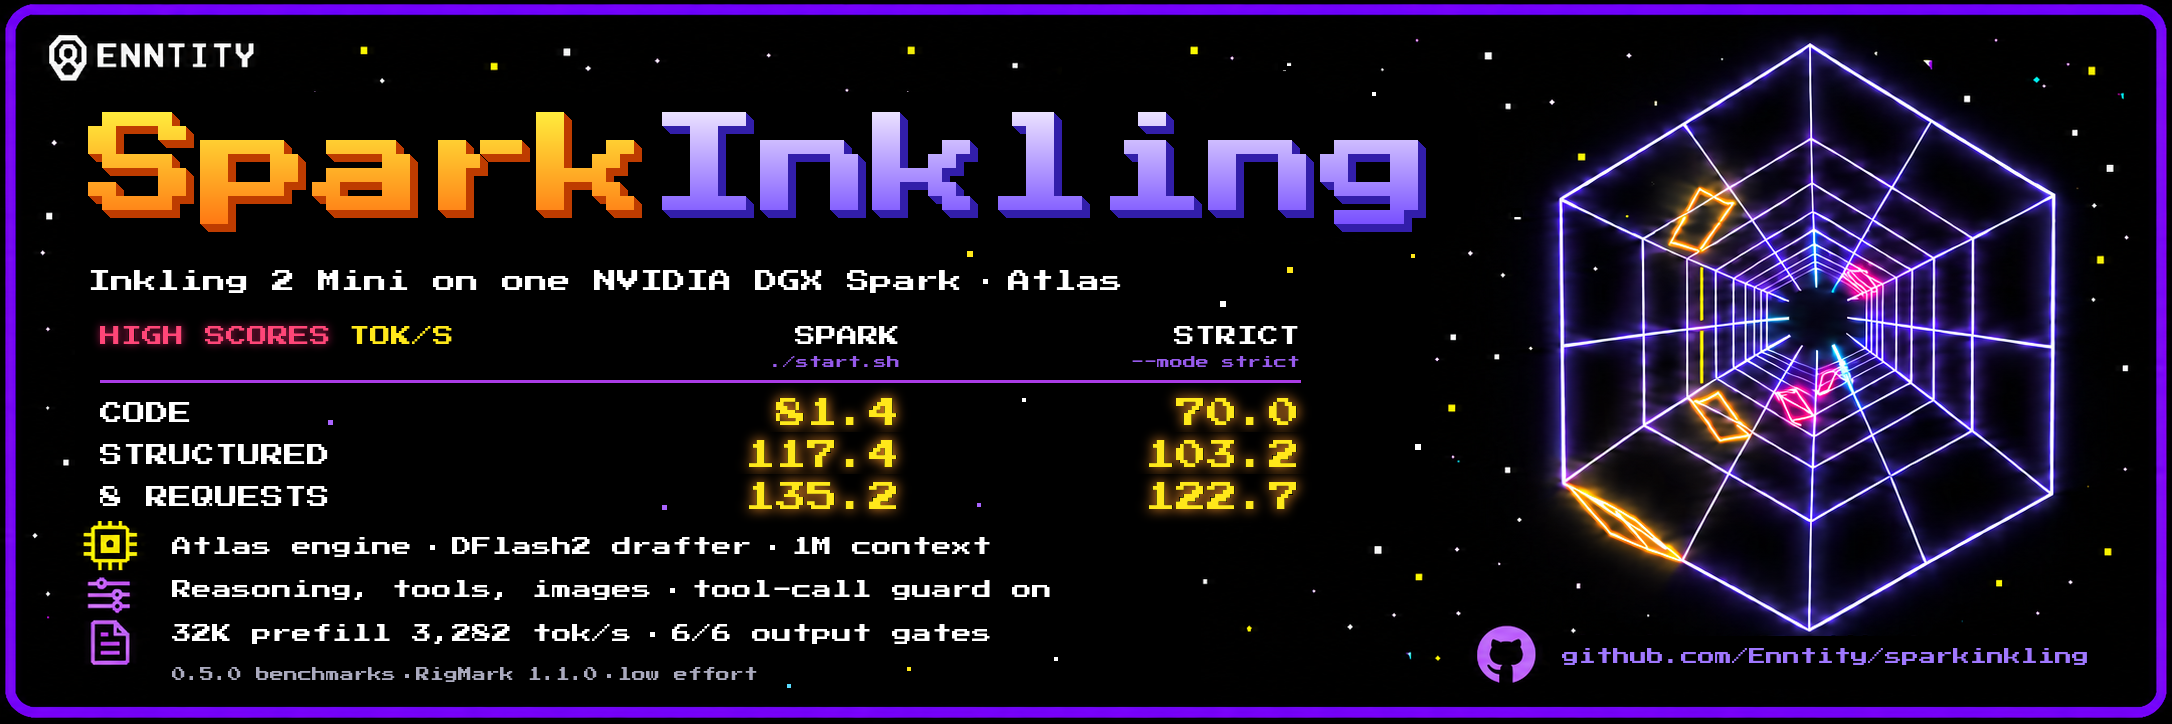
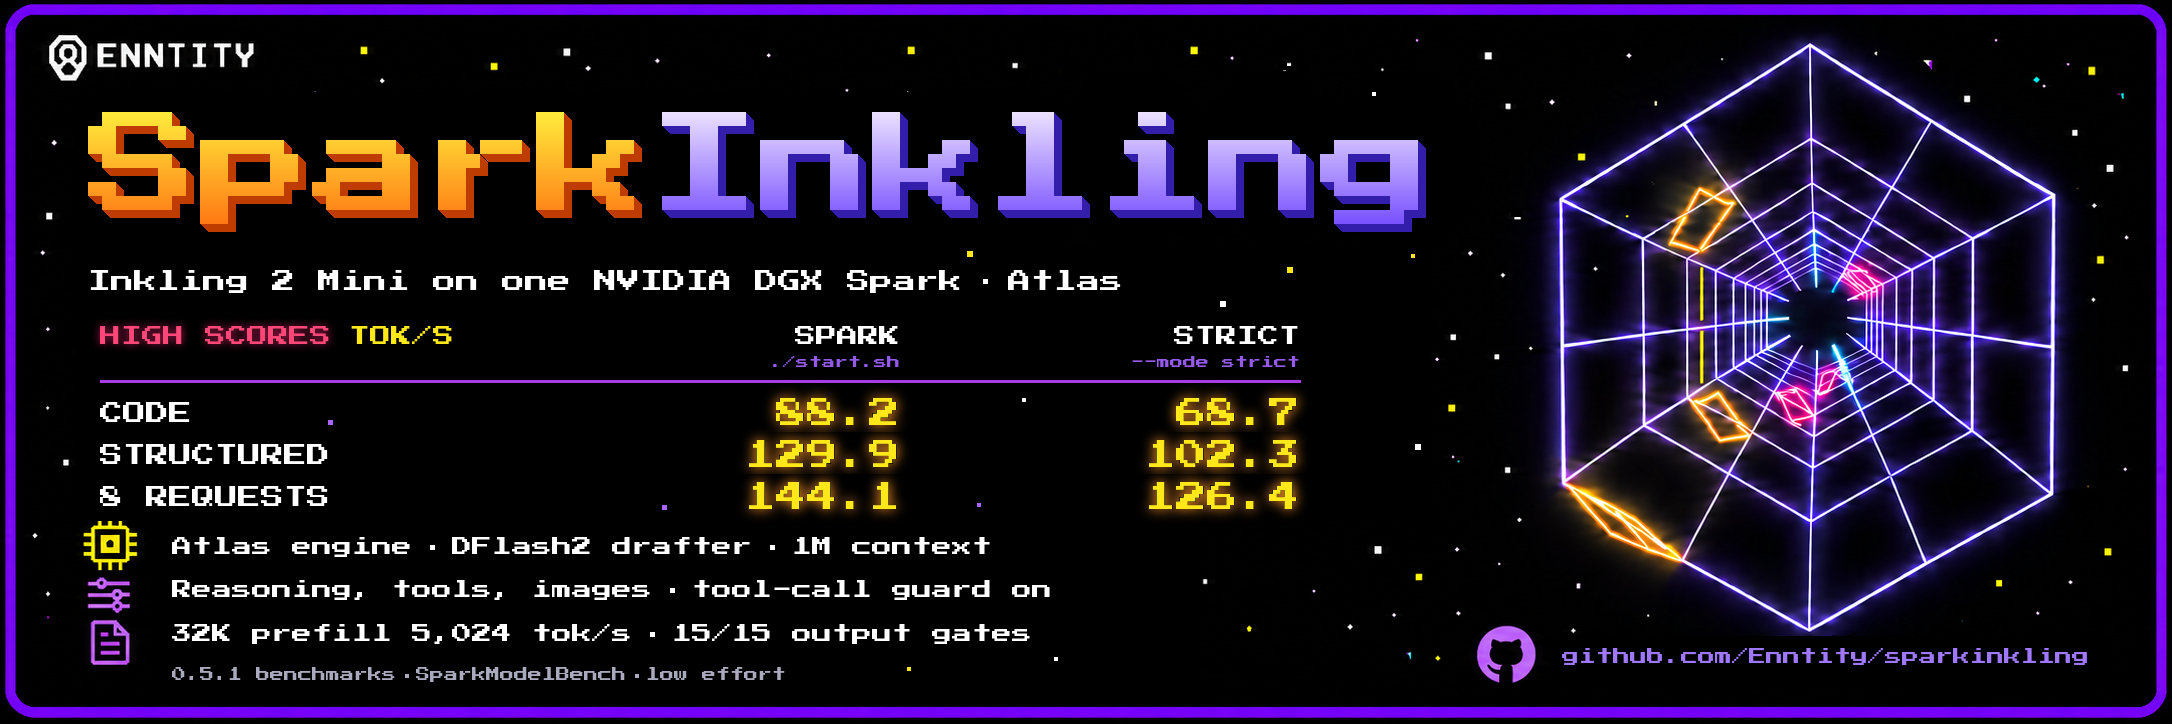
0.5.1: README, cards and method docs lead with SparkModelBench
The README's performance table, the cards and docs/BENCHMARKS.md now quote
the 0.5.1 SparkModelBench medians (RigMark protocol 1.3.0 + RigMark Quality);
0.5.0's RigMark 1.1.0 comparison with vLLM stays, labelled as such.
REPRODUCE gives the SparkModelBench commands. MODES, LIMITATIONS and the
speculative-decoding section say both modes now draft for two live
requests, and LIMITATIONS notes there is no thinking-off mode.

diff --git a/docs/assets/make_cards.py b/docs/assets/make_cards.py
@@ -128,9 +128,10 @@ class Card:
 
 
 PINK = (255, 70, 120)
-# SparkInkling 0.5.0, RigMark 1.1.0, low effort, medians, tok/s
-# (results/2026-11-25-release-0.5.0): label, Spark (the default), Strict.
-SCORES = [("CODE", "81.4", "70.0"), ("STRUCTURED", "117.4", "103.2"), ("8 REQUESTS", "135.2", "122.7")]
+# SparkInkling 0.5.1, SparkModelBench (RigMark protocol 1.3.0), low effort,
+# medians, tok/s (results/2026-11-27-rc-0.5.1): label, Spark (the default),
+# Strict. 8 REQUESTS is the concurrency lane's aggregate code rate.
+SCORES = [("CODE", "88.2", "68.7"), ("STRUCTURED", "129.9", "102.3"), ("8 REQUESTS", "144.1", "126.4")]
 
 
 def scores(card, x0, y, k, ky):
@@ -159,8 +160,8 @@ def scores(card, x0, y, k, ky):
 
 LINES = (["Atlas engine", "DFlash2 drafter", "1M context"],
          ["Reasoning, tools, images", "tool-call guard on"],
-         ["32K prefill 3,282 tok/s", "6/6 output gates"])
-SOURCE = ["0.5.0 benchmarks", "RigMark 1.1.0", "low effort"]
+         ["32K prefill 5,024 tok/s", "15/15 output gates"])
+SOURCE = ["0.5.1 benchmarks", "SparkModelBench", "low effort"]
 URL = "github.com/Enntity/sparkinkling"
 
 

diff --git a/README.md b/README.md
@@ -1,31 +1,29 @@
 <!-- SPDX-License-Identifier: AGPL-3.0-only -->
 <p align="center">
-  <img src="docs/assets/banner.png" alt="SparkInkling: Inkling 2 Mini on one NVIDIA DGX Spark with the Atlas engine. High scores in tokens per second, Spark (./start.sh, the default) and Strict (--mode strict): code 81.4 and 70.0, structured output 117.4 and 103.2, eight requests 135.2 and 122.7. 1M-token context, 6 of 6 output gates. SparkInkling 0.5.0, RigMark 1.1.0, low effort." width="100%">
+  <img src="docs/assets/banner.png" alt="SparkInkling: Inkling 2 Mini on one NVIDIA DGX Spark with the Atlas engine. High scores in tokens per second, Spark (./start.sh, the default) and Strict (--mode strict): code 88.2 and 68.7, structured output 129.9 and 102.3, eight requests 144.1 and 126.4. 1M-token context, 32K prefill 5,024 tokens per second, 15 of 15 output gates. SparkInkling 0.5.1, SparkModelBench, low effort." width="100%">
 </p>
 
 # SparkInkling
 
-**SparkInkling 0.5.0.** Run `./start.sh --version` for this checkout, or
+**SparkInkling 0.5.1.** Run `./start.sh --version` for this checkout, or
 `./start.sh status` for the version and image of a running server.
 
 Thinking Machines' [Inkling 2 Mini](https://huggingface.co/thinkingmachines/Inkling-2-Mini)
 on one NVIDIA DGX Spark, served by the [Atlas](https://github.com/Atlas-Inf/atlas)
 engine with an OpenAI-compatible API, image input, reasoning and tool calls.
 
-0.5.0 drafts with incoai's DFlash2 drafter and serves 1,048,576-token
-requests. Spark mode, SparkInkling's calibrated NVFP4 overlay, is the default.
-Against 0.4.2, one request decodes code 5% faster in Spark and 7% in Strict,
-structured output 13% and 11%, and Strict prose 12%; one short request is
-9-21% faster, and prefill and two to eight requests are level. The 40
-sliding-window layer visits now keep only their last 1,024 tokens, so a token
-of context costs 32 KiB instead of 192 KiB: the default profile's pool holds
-about 1.84M tokens in Spark mode (0.4.2: about 404K), and a code hidden in a
-1,032,929-token prompt was recalled. Greedy text with the drafter on matched
-text with it off in our checks. Spark is ahead of vLLM's own Inkling 2 Mini
-image with its DSpark drafter on code, prose, structured output, prefill and
-one to four requests and trails it at eight; Strict, the checkpoint as
-shipped, is level with that image on code and structured output and ahead on
-prose, prefill and one or two requests. See [Performance](#performance); every
+0.5.1 is a speed release: the same weights, drafter and context as 0.5.0,
+on a faster engine. A cold 32K-token prompt prefills about 1.5x as fast as on
+0.5.0 (5,024 tok/s in Spark), and Spark decodes code at 88.2 tok/s,
+structured output at 129.9 and eight concurrent code requests at 144.1 in
+aggregate. Spark mode, SparkInkling's calibrated NVFP4 overlay, is the
+default. Requests run to 1,048,576 tokens: the 40 sliding-window layer visits
+keep only their last 1,024 tokens, so a token of context costs 32 KiB, and the
+default profile's pool holds about 1.79M tokens in Spark mode. Greedy text
+with the drafter on matched text with it off in our checks. The figures are
+[SparkModelBench](https://github.com/enntity/sparkmodelbench)'s, which runs
+Alex Ellis's RigMark and RigMark Quality; 0.5.0's comparison with vLLM's own
+Inkling 2 Mini image is kept below. See [Performance](#performance); every
 result has its receipts under [`results/`](results/).
 
 ## The model
@@ -54,6 +52,40 @@ numerics. [The modes in detail](docs/MODES.md).
 
 ## Performance
 
+Measured on the 0.5.1 release candidate with
+[SparkModelBench](https://github.com/enntity/sparkmodelbench) `293a44f`
+(RigMark protocol 1.3.0 and RigMark Quality v0.0.2, reasoning low, temperature
+0, medians of every repetition), one Spark with nothing else serving, the
+default profile and drafter:
+[the result, with every receipt](results/2026-11-27-rc-0.5.1/RESULT.md). The
+release image differs from the measured one only in the profiles' notes, and
+its greedy text was the same.
+
+| | Spark | Strict |
+|---|---:|---:|
+| Code decode, tok/s | **88.2** | 68.7 |
+| Prose decode | **57.0** | 40.2 |
+| Structured decode | **129.9** | 102.3 |
+| Cold prefill 8K, tok/s (time to first token) | **5,174** (1.58 s) | 5,137 (1.59 s) |
+| 32K | **5,024** (6.52 s) | 4,918 (6.66 s) |
+| 128K | 3,781 (34.67 s) | 3,779 (34.69 s) |
+| 256K | 2,824 (92.81 s) | 2,827 (92.71 s) |
+| Same prompt sent again, 32K / 256K, time to first token | 0.15 / 0.36 s | 0.16 / 0.37 s |
+| Code, aggregate at 1 / 2 / 4 / 8 requests | **63.2 / 81.9 / 104.7 / 144.1** | 48.1 / 65.6 / 85.6 / 126.4 |
+| Decode gates | 15/15 | 15/15 |
+| RigMark Quality, tasks passed | 3/4 | 3/4 |
+
+Against 0.5.0, cold 32K prefill is 1.53x in Spark and 1.50x in Strict. The
+prefill workload is the same in both RigMark protocols and the decode
+workloads are not, so decode is not compared across them. In RigMark Quality
+both modes miss `go-transfer-ledger`'s acceptance check, with its public
+tests passing. SparkModelBench's staggered four-request lane does not apply:
+it asks for thinking off, which Inkling 2 Mini does not have
+([why](results/2026-11-27-rc-0.5.1/RESULT.md#the-staggered-c4-lane-does-not-apply-to-inkling)).
+vLLM has not been measured with SparkModelBench yet.
+
+### 0.5.0 against vLLM (RigMark 1.1.0)
+
 Measured on the 0.5.0 image with RigMark (reasoning low, temperature 0), one
 Spark, the default profile and drafter, against 0.4.2 and vLLM's own Inkling 2
 Mini image on the same Spark:
@@ -75,8 +107,8 @@ Spark leads vLLM without speculation everywhere, and vLLM with its drafter on
 code (1.17x), prose (1.80x), structured output (1.13x), prefill (1.21x) and
 one to four requests, and trails it at eight short-code requests (0.94x).
 Strict reads the checkpoint's BF16 attention weights as shipped, about twice
-the bytes a Spark token reads. SparkInkling drafts for one live request, or
-two in Strict, and decodes plainly from there: on these short requests
+the bytes a Spark token reads. 0.5.0 drafted for one live request in Spark,
+or two in Strict, and decoded plainly from there: on these short requests
 drafting in a batch lost (see [LIMITATIONS](docs/LIMITATIONS.md#speed)),
 while vLLM's drafter gains under load. Prefix caching costs a cold prompt of
 512 tokens or more one short extra pass (about 0.1 s), which is what lets the
@@ -237,9 +269,9 @@ one, two and four requests, matched text with it off in our check
   accepted decodes plainly for a short stretch (32 tokens at first, longer
   while re-probes keep failing), so code and structured output draft and
   prose mostly does not.
-- **Concurrent requests.** Strict drafts three tokens each for two live
-  requests and decodes plainly, in a batch, from three; Spark drafts for one.
-  The settings were tuned for this drafter
+- **Concurrent requests.** Both modes draft three tokens each for two live
+  requests and decode plainly, in a batch, from three (0.5.0's Spark drafted
+  for one). The settings were tuned for this drafter
   ([results](results/2026-11-25-dflash2-tuning/RESULT.md)).
 
 `DRAFTER=none` turns the drafter off.
@@ -248,7 +280,9 @@ one, two and four requests, matched text with it off in our check
 
 Every figure above has its commands, unedited receipts and checksums under
 [`results/`](results/README.md). [docs/REPRODUCE.md](docs/REPRODUCE.md) is how
-to run the same RigMark suites and the functional check on your own Spark.
+to run the same SparkModelBench suite (pinned here as
+[`bench/sparkmodelbench`](bench/sparkmodelbench)) and the functional check on
+your own Spark.
 What SparkInkling does not do, and what its evidence does not cover, is in
 [docs/LIMITATIONS.md](docs/LIMITATIONS.md).
 
@@ -283,8 +317,11 @@ What the branch adds and what it does not do yet:
 ## Credits
 
 Inkling 2 Mini and its DSpark draft model are by Thinking Machines Lab
-(Apache-2.0). The DFlash2 draft model is by Inco AI (Apache-2.0). Measurement uses [RigMark](https://github.com/alexellis/rigmark)
-by Alex Ellis (MIT). The launcher and install directory are adapted from
+(Apache-2.0). The DFlash2 draft model is by Inco AI (Apache-2.0). Measurement uses
+[SparkModelBench](https://github.com/enntity/sparkmodelbench), which runs
+[RigMark](https://github.com/alexellis/rigmark) and
+[RigMark Quality](https://github.com/alexellis/rigmark-quality) by Alex Ellis,
+OpenFaaS Ltd (MIT). The launcher and install directory are adapted from
 [SparkQwen](https://github.com/Enntity/sparkqwen) and
 [SparkGLM](https://github.com/Enntity/sparkglm).
 

diff --git a/docs/BENCHMARKS.md b/docs/BENCHMARKS.md
@@ -1,11 +1,47 @@
 <!-- SPDX-License-Identifier: AGPL-3.0-only -->
 # Benchmark method
 
-SparkInkling uses [RigMark](https://github.com/alexellis/rigmark) by Alex Ellis
-(MIT) at commit `40fabcaf6e963ac27ab347f61d54a225dbd07419`, protocol 1.1.0,
-with the settings the vLLM baseline on the same Spark was measured with.
+From 0.5.1, SparkInkling is measured with
+[SparkModelBench](https://github.com/enntity/sparkmodelbench), pinned here as
+[`bench/sparkmodelbench`](../bench/sparkmodelbench) at `293a44f`. It runs
+[RigMark](https://github.com/alexellis/rigmark) (protocol 1.3.0) and
+[RigMark Quality](https://github.com/alexellis/rigmark-quality) (v0.0.2) by
+Alex Ellis, OpenFaaS Ltd (MIT), with fixed settings, and adds Enntity's
+staggered four-request field guide. Its README describes every lane.
 
-## Results
+## Results (0.5.1, SparkModelBench)
+
+From [`results/2026-11-27-rc-0.5.1`](../results/2026-11-27-rc-0.5.1/RESULT.md),
+the 0.5.1 release candidate (`717bd225a5d6`; the release tag `a96a89ab0b29`
+differs only in the profiles' notes), default profile and drafter (DFlash2);
+medians over all repetitions.
+
+| Mode | Code decode | Prose decode | Structured | Cold prefill 8K / 32K / 64K / 128K / 256K | Code aggregate C1 / C2 / C4 / C8 | Gates | Quality |
+|---|---:|---:|---:|---:|---:|---:|---:|
+| Spark | 88.2 | 57.0 | 129.9 | 5,174 / 5,024 / 4,540 / 3,781 / 2,824 | 63.2 / 81.9 / 104.7 / 144.1 | 15/15 | 3/4 |
+| Strict | 68.7 | 40.2 | 102.3 | 5,137 / 4,918 / 4,481 / 3,779 / 2,827 | 48.1 / 65.6 / 85.6 / 126.4 | 15/15 | 3/4 |
+
+## Protocol (0.5.1)
+
+- SparkModelBench's default lanes (RigMark decode and prefill, RigMark
+  Quality, the staggered C4) in one invocation, then its optional RigMark
+  concurrency lane in a second, per mode, with `--effort low`.
+- Five code, prose and structured-output decode samples, each with an
+  8,192-token cap; cold prefill at 8K, 32K, 64K, 128K and 256K on RigMark's
+  exact token-ID workload, three cold/immediate-replay pairs a depth; four
+  RigMark Quality tasks with a 180-second agent budget each; three rounds of
+  1, 2, 4 and 8 code requests released together, 256 tokens each.
+- The staggered C4 lane asks for thinking off. Inkling 2 Mini has none, so the
+  lane is not a result for it
+  ([why](../results/2026-11-27-rc-0.5.1/RESULT.md#the-staggered-c4-lane-does-not-apply-to-inkling)).
+- One Spark, nothing else serving, building or copying images during timed
+  measurement.
+
+## Results (0.5.0, RigMark 1.1.0)
+
+SparkInkling 0.5.0 and the vLLM comparison used RigMark alone, at commit
+`40fabcaf6e963ac27ab347f61d54a225dbd07419`, protocol 1.1.0, with the settings
+the vLLM baseline on the same Spark was measured with.
 
 From [`results/2026-11-25-release-0.5.0`](../results/2026-11-25-release-0.5.0/RESULT.md),
 the 0.5.0 image (`13920bc38fd6`), default profile and drafter (DFlash2);
@@ -26,7 +62,7 @@ these numbers were chosen in
 [`results/2026-11-25-dflash2-tuning`](../results/2026-11-25-dflash2-tuning/RESULT.md),
 where the tuning suite and RigMark disagreed about drafting under load.
 
-## Protocol
+## Protocol (0.5.0)
 
 - Two invocations per configuration: a code suite (decode, prefill, short-code
   concurrency) and a prose suite (decode, short-prose concurrency), with every
@@ -50,6 +86,8 @@ speed. A 256-token capped stream is not necessarily a completed answer. Basic
 output gates check properties of these prompts, not broad model quality.
 
 ## Reproduction
+
+0.5.1: [REPRODUCE](REPRODUCE.md#the-release-run). 0.5.0, RigMark alone:
 
 ```sh
 EB='{"chat_template_kwargs":{"reasoning_effort":"low"}}'

diff --git a/docs/REPRODUCE.md b/docs/REPRODUCE.md
@@ -13,16 +13,44 @@ thing on your own Spark.
 - This repository at the release's commit and `./start.sh` working in the mode
   you want to measure ([INSTALL-MANUAL](INSTALL-MANUAL.md) for the steps by
   hand).
-- [RigMark](https://github.com/alexellis/rigmark) at the commit the result
-  names (0.5.0: `40fabcaf6e96`, protocol 1.1.0).
+- [SparkModelBench](https://github.com/enntity/sparkmodelbench) at the
+  commit the result names (0.5.1: `293a44f`, the
+  [`bench/sparkmodelbench`](../bench/sparkmodelbench) submodule), with Python
+  3.10+, Git and Docker; or, for 0.5.0 and earlier,
+  [RigMark](https://github.com/alexellis/rigmark) at `40fabcaf6e96`
+  (protocol 1.1.0).
 
 Check the receipts you are comparing against first:
 
 ```sh
-cd results/2026-11-25-release-0.5.0 && sha256sum -c SHA256SUMS
+cd results/2026-11-27-rc-0.5.1 && sha256sum -c SHA256SUMS
 ```
 
 ## The release run
+
+[`raw/window.sh`](../results/2026-11-27-rc-0.5.1/raw/window.sh) is the
+script that produced the 0.5.1 figures, kept as it ran. For each mode:
+
+```sh
+git submodule update --init --recursive bench/sparkmodelbench
+docker build -t rigmark-quality-runtime:0.4 bench/sparkmodelbench/upstream/rigmark-quality/quality_suite
+MODE=spark ./start.sh           # then again with MODE=strict
+cd bench/sparkmodelbench
+python3 run.py --base-url http://127.0.0.1:8895 --model inkling-2-mini-atlas \
+  --metadata metadata.json --comparison-id sparkinkling-0.5.1 --effort low \
+  --out runs/spark-full
+python3 run.py --base-url http://127.0.0.1:8895 --model inkling-2-mini-atlas \
+  --metadata metadata.json --comparison-id sparkinkling-0.5.1 --effort low \
+  --out runs/spark-concurrency --lanes concurrency
+```
+
+`metadata.json` describes your run (hardware, image tag, drafter, competing
+traffic); ours are `raw/meta-*.json`. The first command takes 17-20
+minutes a mode (256K prefill and RigMark Quality are most of it), the second
+about two. Each output directory holds SparkModelBench's `CARD.md`, RigMark's
+own card and JSON, and a `SHA256SUMS`.
+
+### 0.5.0 (RigMark alone)
 
 [`raw/run050.sh`](../results/2026-11-25-release-0.5.0/raw/run050.sh) is
 the script that produced the 0.5.0 figures. It is kept as it ran, so its paths

diff --git a/docs/LIMITATIONS.md b/docs/LIMITATIONS.md
@@ -2,14 +2,17 @@
 # Limitations
 
 What to know before relying on SparkInkling, on one DGX Spark. This page
-describes 0.5.0. Figures here are from its release run
-([`results/2026-11-25-release-0.5.0`](../results/2026-11-25-release-0.5.0/RESULT.md))
-unless they say they come from a development build.
+describes 0.5.1. Its own figures are from the 0.5.1 run
+([`results/2026-11-27-rc-0.5.1`](../results/2026-11-27-rc-0.5.1/RESULT.md),
+SparkModelBench); comparisons with vLLM, and figures that name 0.5.0, are from
+0.5.0's release run
+([`results/2026-11-25-release-0.5.0`](../results/2026-11-25-release-0.5.0/RESULT.md),
+RigMark 1.1.0), as vLLM has not been measured with SparkModelBench yet.
 
 ## Speed
 
-- **Drafts help one request at a time, or two in Strict.** From three live
-  requests in Strict and two in Spark the engine decodes plainly, in a batch.
+- **Drafts help one or two requests at a time.** From three live requests the
+  engine decodes plainly, in a batch (0.5.0's Spark from two).
   On RigMark's short requests (256 tokens, reasoning low) drafting in a batch
   lost: Strict three drafts each at four requests read 76.3 tok/s against 86.0
   plain, Spark three each at two 70.2 against 77.4, on a development build of
@@ -29,6 +32,13 @@ unless they say they come from a development build.
   70.0 against 69.8 tok/s on code and 103.2 against 104.3 on structured
   output (0.4.2: 65.2 and 92.6), and trails it at four and eight requests.
   Strict is ahead of vLLM without a drafter on both.
+- **There is no thinking-off mode.** Inkling 2 Mini always reasons a little:
+  `chat_template_kwargs.enable_thinking: false` is read as reasoning effort
+  `none`, at which the model still reasons and SparkInkling streams none of
+  it. On a short prompt that is about 200 tokens before the answer; on
+  SparkModelBench's ~16K-token field guide it was 1,329, so a client
+  that sends a long prompt with thinking off and a small `max_tokens` can get
+  no visible text.
 - **One Spark.** The image refuses multi-rank flags. The measurements were
   taken with nothing else serving on the Spark; other GPU work on the same
   machine slows it.

diff --git a/docs/assets/README.md b/docs/assets/README.md
@@ -6,16 +6,16 @@ matching social card (1733 × 907); `social-preview.jpg` is its same-dimension
 JPEG export, below 1 MB.
 
 The cards name the product and carry a high-score table for its two modes,
-Strict (`./start.sh`) and Spark (`--mode spark`): code decode,
-structured-output decode and eight short-code requests in tok/s, with cold 32K
-prefill and the output gates below. The figures are SparkInkling 0.5.0's
-RigMark medians
-([`results/2026-11-25-release-0.5.0`](../../results/2026-11-25-release-0.5.0/RESULT.md));
+Spark (`./start.sh`) and Strict (`--mode strict`): code decode,
+structured-output decode and eight concurrent code requests in tok/s, with
+cold 32K prefill and the output gates below. The figures are SparkInkling
+0.5.1's SparkModelBench medians
+([`results/2026-11-27-rc-0.5.1`](../../results/2026-11-27-rc-0.5.1/RESULT.md));
 `SCORES`, `LINES` and `SOURCE` in the script hold them, so a new release
 changes those and re-renders.
 
 They were first composed on 2026-11-21, given the table on 2026-11-23 and
-re-rendered for 0.5.0 on 2026-11-25, by [`make_cards.py`](make_cards.py) from
+re-rendered for 0.5.0 on 2026-11-25 and for 0.5.1 on 2026-11-27, by [`make_cards.py`](make_cards.py) from
 SparkQwen's cards (Enntity/sparkqwen `docs/assets` at commit `bd26c6d`). The
 script keeps the purple arcade frame, starfield, Enntity logo, icons, wireframe
 tunnel and GitHub mark, paints out the title, version, subtitle, lanes,

diff --git a/bench/README.md b/bench/README.md
@@ -3,7 +3,10 @@
 
 ## Throughput
 
-`rigmark.sh` runs the two [RigMark](https://github.com/alexellis/rigmark)
+From 0.5.1 the published figures come from
+[SparkModelBench](https://github.com/enntity/sparkmodelbench), pinned as the
+`sparkmodelbench` submodule here; [REPRODUCE](../docs/REPRODUCE.md#the-release-run)
+has its commands. `rigmark.sh` is kept for 0.5.0's protocol: it runs the two [RigMark](https://github.com/alexellis/rigmark)
 suites behind the published figures against the server `./start.sh` started,
 in whatever mode it is serving: the code suite (decode, cold and replayed
 prefill at 8K and 32K, 1/2/4/8 concurrent requests) and the prose suite
@@ -29,7 +32,8 @@ They need only Python 3, talk to the server `./start.sh` starts on
 `http://127.0.0.1:8895`, and send greedy requests (temperature 0). Run them
 one at a time with nothing else using the Spark. They are smoke checks, not
 benchmarks; throughput is measured with
-[RigMark](https://github.com/alexellis/rigmark) as REPRODUCE describes.
+[SparkModelBench](https://github.com/enntity/sparkmodelbench) as REPRODUCE
+describes.
 
 | Driver | What it checks | Run |
 |---|---|---|

diff --git a/docs/MODES.md b/docs/MODES.md
@@ -57,8 +57,8 @@ directory, `<model root>/incoai--Inkling-2-Mini-DFlash2`. It reads the same
 four taps of the target as the checkpoint's bundled DSpark draft model
 (`mtp.safetensors`) and accepts more of its drafts; 0.5.0 replaces DSpark
 with it. The engine verifies every draft against the mode's own weights, so
-the drafter changes speed and not the model. Strict drafts for one or two
-live requests and Spark for one; from there the engine decodes plainly,
+the drafter changes speed and not the model. Both modes draft for one or two
+live requests; from there the engine decodes plainly,
 which delivers more. `DRAFTER=none` turns
 drafting off.
 
